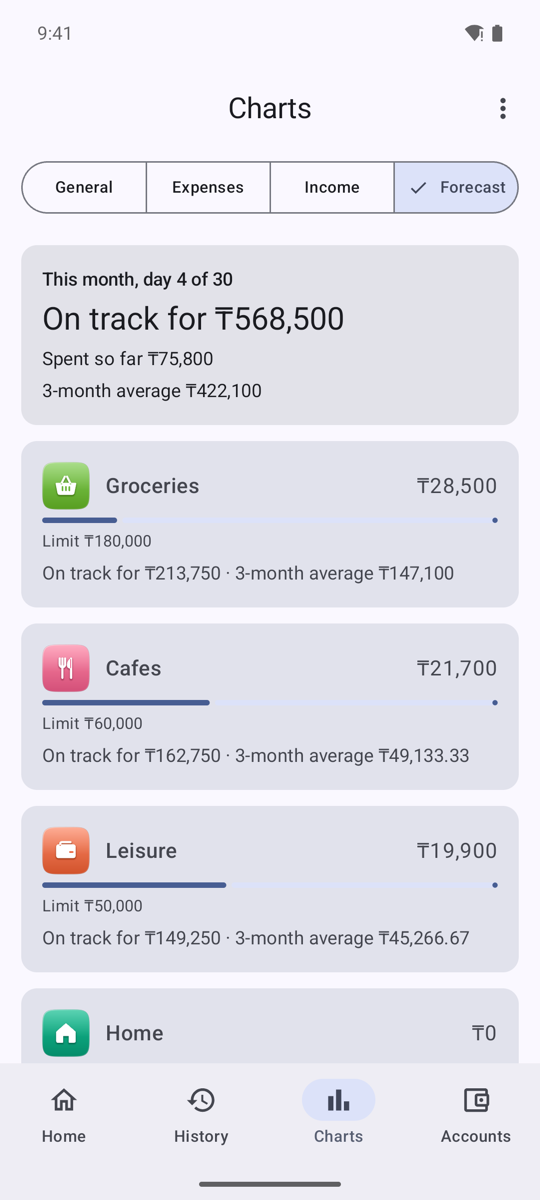
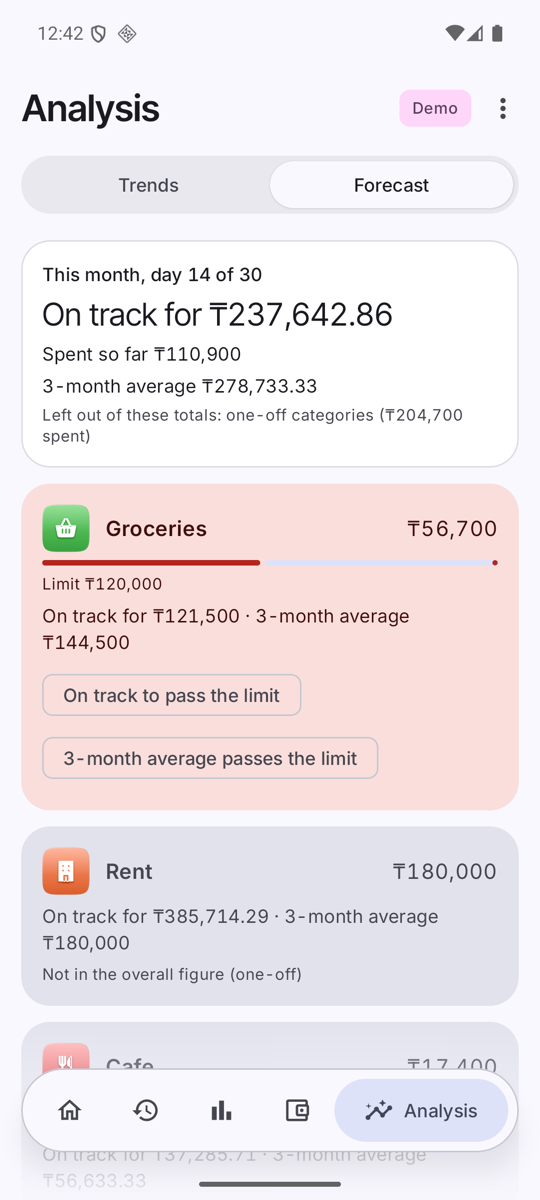
Update docs (#43)
* docs: refresh README and widgets wiki for 0.7

* chore: bump version to 0.7.1

* docs: retake screenshots from demo mode on the emulator

* docs: retake wealth screenshots, add Appearance and Animations

* feat(demo): seed bonds, other assets and monthly income in demo mode

diff --git a/app/src/main/kotlin/dev/yernur/moneytracker/data/demo/DemoData.kt b/app/src/main/kotlin/dev/yernur/moneytracker/data/demo/DemoData.kt
@@ -2,7 +2,12 @@ package dev.yernur.moneytracker.data.demo
 
 import dev.yernur.moneytracker.data.db.AccountEntity
 import dev.yernur.moneytracker.data.db.AppDatabase
+import dev.yernur.moneytracker.data.db.BondEntity
+import dev.yernur.moneytracker.data.db.CashflowItemEntity
+import dev.yernur.moneytracker.data.db.CashflowKind
 import dev.yernur.moneytracker.data.db.CategoryEntity
+import dev.yernur.moneytracker.data.db.ManualAssetEntity
+import dev.yernur.moneytracker.data.db.ManualKind
 import dev.yernur.moneytracker.data.db.TransactionEntity
 import dev.yernur.moneytracker.data.db.TransactionType
 import dev.yernur.moneytracker.data.db.TransferEntity
@@ -13,7 +18,7 @@ import kotlinx.coroutines.flow.first
 
 /**
  * Made-up data for demo mode: four months of everyday spending, two salaries a month, and transfers both ways between the same accounts
- * (so History's netting shows). Nothing here comes from the owner's backup. Fixed seed, dated back from [today], so every demo looks alike.
+ * (so History's netting shows), plus a few wealth entries (two bonds, two other assets, monthly income and payments). Nothing here comes from the owner's backup. Fixed seed, dated back from [today], so every demo looks alike.
  */
 object DemoData {
     /** Used for the dollar account's default-currency amounts (a demo constant, not a real rate). */
@@ -101,5 +106,17 @@ object DemoData {
         }
         db.transactionDao().insertAll(transactions)
         db.transferDao().insertAll(transfers)
+        seedWealth(db, created)
+    }
+
+    /** Amounts are minor units (x100). The monthly salary matches the two 420,000 paydays above. */
+    private suspend fun seedWealth(db: AppDatabase, stamp: String) {
+        db.manualAssetDao().upsert(ManualAssetEntity("demo-asset-flat", "Flat", ManualKind.Asset, "KZT", 30_000_000_00, stamp, stamp))
+        db.manualAssetDao().upsert(ManualAssetEntity("demo-asset-car", "Car", ManualKind.Asset, "KZT", 5_000_000_00, stamp, stamp))
+        db.bondDao().upsert(BondEntity("demo-bond-usd", "Treasury bond 2029", "USD", 1_000_00, 2, 1_960_00, 425, 2, "2029-08-15", 2_010_00, stamp, stamp))
+        db.bondDao().upsert(BondEntity("demo-bond-kzt", "Corporate bond 2030", "KZT", 100_000_00, 5, 480_000_00, 1400, 2, "2030-03-10", null, stamp, stamp))
+        db.cashflowItemDao().upsert(CashflowItemEntity("demo-cf-salary", "Salary", CashflowKind.Income, "KZT", 840_000_00, false, stamp, stamp))
+        db.cashflowItemDao().upsert(CashflowItemEntity("demo-cf-rent", "Rent", CashflowKind.Obligation, "KZT", 180_000_00, true, stamp, stamp))
+        db.cashflowItemDao().upsert(CashflowItemEntity("demo-cf-subs", "Subscriptions", CashflowKind.Obligation, "KZT", 9_000_00, false, stamp, stamp))
     }
 }

diff --git a/app/src/test/kotlin/dev/yernur/moneytracker/data/demo/DemoDataTest.kt b/app/src/test/kotlin/dev/yernur/moneytracker/data/demo/DemoDataTest.kt
@@ -48,6 +48,14 @@ class DemoDataTest {
     }
 
     @Test
+    fun addsBondsOtherAssetsAndMonthlyIncome() = runBlocking {
+        DemoData.seedIfEmpty(db, today)
+        assertEquals(2, db.bondDao().getLive().size)
+        assertEquals(2, db.manualAssetDao().getLive().size)
+        assertEquals(840_000_00L, db.cashflowItemDao().getLive().single { it.title == "Salary" }.monthlyMinor)
+    }
+
+    @Test
     fun leavesAUsedDemoDatabaseAlone() = runBlocking {
         DemoData.seedIfEmpty(db, today)
         val before = db.transactionDao().observeBetween("2000-01-01", today.toString()).first().size

diff --git a/README.md b/README.md
@@ -41,8 +41,16 @@ Your data lives in a local database on the phone; the optional Google Sheet is a
 
 **Charts and forecast**
 - General (income / expenses / profit or loss), Expenses and Income stacked by category, by day / week / month / year. Tap a category row to see its operations in that period and tap one to edit it.
-- **Forecast**: projected month-end spending, overall and per category, from the run-rate (spent so far ÷ days elapsed × days in month) with the 3-month average next to it.
+- **Forecast** (in the Analysis tab): projected month-end spending, overall and per category, from the run-rate (spent so far ÷ days elapsed × days in month) with the 3-month average next to it.
 - **Limit warnings** on Home and as notifications when a projection exceeds a category's limit (threshold configurable).
+
+**Analysis and affordability**
+- **Analysis tab**: six monthly bars with a projected current month, "worth a look" insights, and a per-category trend (12-month line, weekday pattern, largest operations).
+- Recurring costs, price changes and possible duplicates detected from your own history; nothing changes unless you confirm.
+- **Can I afford this?** (More): enter a price, a category and an account; get Yes / Tight / No with the numbers behind it. Everything is computed on the phone.
+
+**Automation**
+- **Google Wallet payments** (off until you agree): a payment made with Google Wallet raises a prompt to pick the category, then saves the expense. Only Wallet notifications are read, nothing leaves the phone.
 
 **Reminders and notifications**
 - Daily reminder at a time you choose (default 20:00): "enter today's spending".
@@ -64,8 +72,8 @@ Your data lives in a local database on the phone; the optional Google Sheet is a
 </p>
 
 **Home-screen widgets**
-- Seven widgets: Spent this month, Spent today, Quick add, Category limits, Month by category, Recent operations, Month dashboard.
-- Glass or solid look, optional dot-matrix numerals (More → Widgets). Widgets show spending, never account balances.
+- Six widgets: Spent this month, Spent today, Quick add (expense, income or transfer, chosen when placed), Currency rates (up to three currencies against tenge, with a refresh button), Month by category, Month dashboard. Each draws a preview in the widget picker.
+- Three looks (More → Widget style): Nothing OS (dot-matrix numerals), Glass, Usual. Widgets show spending, never account balances.
 
 **Privacy and backup**
 - App lock with a 4–6 digit PIN, optional fingerprint or face unlock, auto-lock delay, and control over what the recent-apps list shows.
@@ -77,7 +85,9 @@ Your data lives in a local database on the phone; the optional Google Sheet is a
 - Updates from GitHub releases inside the app, with release notes; the app saves a copy of your data first.
 
 **Look and feel**
-- Material 3 with the system accent color and dark mode, original icon artwork in three styles, customizable bottom bar and Home cards, swipe between tabs, optional experimental "liquid glass" look.
+- Material 3 with the system accent color and dark mode, Inter type, a floating bottom bar, original icon artwork in several styles, customizable bottom bar and Home cards, swipe between tabs, per-effect animation switches, optional "liquid glass" look.
+- **Demo mode** (More → About): a separate database of made-up data, handy for screenshots or showing the app; your real data is never opened.
+- **Report a bug or suggest a feature** (More → App): opens a pre-filled GitHub issue in the browser; the app sends nothing itself.
 
 <p align="center">
 <img src="docs/screenshots/accounts.png" width="19%" alt="Accounts">
@@ -85,6 +95,8 @@ Your data lives in a local database on the phone; the optional Google Sheet is a
 <img src="docs/screenshots/calc.png" width="19%" alt="Calculator">
 <img src="docs/screenshots/charts.png" width="19%" alt="General chart">
 <img src="docs/screenshots/more.png" width="19%" alt="More">
+<img src="docs/screenshots/more-appearance.png" width="19%" alt="Appearance settings">
+<img src="docs/screenshots/more-animations.png" width="19%" alt="Animation switches">
 </p>
 
 ## Quick start (user manual)
@@ -123,7 +135,7 @@ export JAVA_HOME=/opt/homebrew/opt/openjdk@25 PATH=/opt/homebrew/opt/openjdk@25/
 ./gradlew testDebugUnitTest assembleDebug     # APK: app/build/outputs/apk/debug/app-debug.apk
 ```
 
-Stack: Kotlin, Jetpack Compose + Material 3, Room, WorkManager, hand-wired DI. Money is stored as `Long` minor units, never `Double`. No analytics and no network calls except Google auth and Sheets/Drive, the update check against GitHub, and one exchange-rate request a day to the National Bank of Kazakhstan.
+Stack: Kotlin, Jetpack Compose + Material 3, Room, WorkManager, hand-wired DI. Money is stored as `Long` minor units, never `Double`. No analytics and no network calls except Google auth and Sheets/Drive, the update check against GitHub, and one exchange-rate request a day (plus a manual refresh from the Rates widget, at most hourly) to the National Bank of Kazakhstan.
 
 ## Documentation
 
@@ -135,8 +147,9 @@ Stack: Kotlin, Jetpack Compose + Material 3, Room, WorkManager, hand-wired DI. M
 | [docs/SYNC_DESIGN.md](docs/SYNC_DESIGN.md) | Google Sheets sync design and its known limits |
 | [docs/GOOGLE_SETUP.md](docs/GOOGLE_SETUP.md) | Google Cloud setup for the Sheets sync |
 | [docs/RELEASING.md](docs/RELEASING.md) | Branches, tags, signed release APK |
+| [docs/WALLET_LOGGER.md](docs/WALLET_LOGGER.md) | The notification logger used to check Google Wallet's format |
 | [CLAUDE.md](CLAUDE.md) | Project rules and milestones for the AI-assisted workflow |
 
 ## Status
 
-Version 0.4.0. Unit tests and the debug build pass; the live Google round trip and the app on a physical phone are not yet verified. The wealth data lives on the phone only (it is not in the Google Sheet); use *Back up to a file* for it. Not built: Apps Script `onEdit` stamping, sync conflict log, regular-payment reminders, previews in the widget picker (planned, see [docs/FEATURES.md](docs/FEATURES.md)).
+Version 0.7.1. Unit tests and the debug build pass; the live Google round trip and the app on a physical phone are not yet verified. The wealth data lives on the phone only (it is not in the Google Sheet); use *Back up to a file* for it. Not built: Apps Script `onEdit` stamping, sync conflict log, regular-payment reminders, per-card Wallet account mapping (planned, see [docs/FEATURES.md](docs/FEATURES.md)).

diff --git a/docs/wiki/Widgets.md b/docs/wiki/Widgets.md
@@ -1,6 +1,6 @@
 # Widgets
 
-Seven home-screen widgets show your spending at a glance. **They show spending, never account balances.**
+Six home-screen widgets show your spending at a glance. **They show spending, never account balances.**
 
 ## Add one
 1. Long-press an empty spot on the home screen and choose **Widgets**.
@@ -11,18 +11,16 @@ Seven home-screen widgets show your spending at a glance. **They show spending, 
 |---|---|---|
 | Spent this month | 2×2 | Spending this month against the forecast, with a limit-warning dot |
 | Spent today | 2×2 | Today's spending and the last operations |
-| Quick add | 2×1 | Buttons to add an expense, income or transfer |
-| Category limits | 4×2 | The top categories as bars against their limits |
+| Quick add | 2×1 | One button that opens the add screen for the kind you chose when placing it |
+| Currency rates | 2×2 | Up to three currencies against tenge, with a refresh button |
 | Month by category | 4×4 | The month's stacked category bar and top categories |
-| Recent operations | 4×4 | The latest operations with their category icons |
 | Month dashboard | 4×6 | Totals, chart, limits and recent operations in one card |
 
 ## Settings (More → Widgets)
-- **Glass widgets**: dark translucent cards. Off gives solid cards.
-- **Dot-matrix numbers**: the big numbers in the Doto font. Small text stays in the system font.
+- **Widget style**: *Nothing OS* (light translucent fill, dot-matrix numbers), *Glass* (frosted fill) or *Usual* (opaque card). All follow light and dark mode.
 
 Widgets refresh after every change you save and every 30 minutes.
 
 ## Known limits
-- The widget picker shows the app icon instead of a preview of each widget. Previews are planned (see *Widget picker preview* in [docs/FEATURES.md](../FEATURES.md)).
+- The picker previews use made-up numbers; on Android 14 and older the app icon shows instead.
 - Only the *Month at a glance* widget has been looked at on an emulator; the others and the phone itself are not yet checked. On some launchers the tall dashboard is offered smaller than 4×6.

diff --git a/docs/FEATURES.md b/docs/FEATURES.md
@@ -398,7 +398,7 @@ BUILT and unit-tested; looked at on the emulator, not yet on the phone.
 
 ## Demo mode (owner request 2026-11-13). BUILT, checked on the emulator
 - More -> About -> Demo mode (after a confirmation) restarts the app on `demo.db`, a separate database filled with made-up data
-  (`DemoData`: four months of spending, salaries, transfers both ways and a dollar account; nothing from the owner's backup).
+  (`DemoData`: four months of spending, salaries, transfers both ways and a dollar account, plus two bonds, two other assets and a monthly salary and payments on the Wealth screen; nothing from the owner's backup).
   The real `moneytracker.db` is never opened in demo mode: its checksum was the same before, during and after a demo on the emulator.
 - A "Demo" label sits in the top bar; tapping it asks "Return to your data?" (then the PIN, if set). Each new demo starts fresh (the last `demo.db` is deleted on the way in).
 - No Google sync: the weekly job skips, and the Sheets screen shows stub buttons only. Import, backup and restore stay as they are

diff --git a/docs/wiki/Settings.md b/docs/wiki/Settings.md
@@ -2,6 +2,8 @@
 
 <img src="../screenshots/more.png" width="240" alt="More"> <img src="../screenshots/more-data.png" width="240" alt="More, data and sync">
 
+<img src="../screenshots/more-appearance.png" width="240" alt="More, Appearance"> <img src="../screenshots/more-animations.png" width="240" alt="More, Animations">
+
 | Section | Setting | What it does |
 |---|---|---|
 | Wealth | Wealth, Compound interest | See [Wealth and compound interest](Wealth-and-Compound-Interest.md) |
